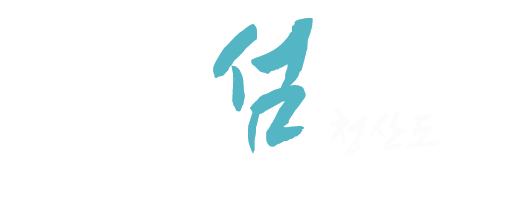
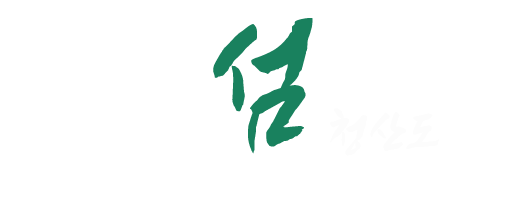
0710

Changed region(s): [[0.415, 0.0857, 0.6225, 0.7143]]

diff --git a/cheongsando/css/main.css b/cheongsando/css/main.css
@@ -50,7 +50,7 @@ header .gnb ul li a {
     display: block;
 }
 header .gnb ul li a:hover {
-    color: #55B2C5;
+    color: #19815E;
 }
 header.fixed {
     backdrop-filter: blur(10px) brightness(0.9);
@@ -85,7 +85,7 @@ header.fixed {
     width: 187px;
     height: 187px;
     border-radius: 50%;/* 정사각형에 border-radius가 동그라미 */
-    background-color: #55B2C5;
+    background-color: #19815E;
     color: #fff;
     text-align: center;
     box-shadow: 3px 3px 10px rgba(0, 0, 0, 0.2);
@@ -145,9 +145,9 @@ header.fixed {
 }
 .culture .more a:hover { 
     color: #fff;
-    background-color: rgba(84, 181, 197, 0.6);
+    background-color: rgba(25, 129, 94, 0.6);
     background-image: url(../images/more_white.svg);
-    border-color: rgba(84, 181, 197, 0.6);
+    border: 1px solid rgba(25, 129, 94, 0.6);
 }
 .culture .more a span {
     margin: 0 7px 0 0;
@@ -237,9 +237,9 @@ header.fixed {
 }
 .tour .more a:hover { 
     color: #fff;
-    background-color: rgba(84, 181, 197, 0.6);
+    background-color: rgba(25, 129, 94, 0.6);
     background-image: url(../images/more_white.svg);
-    border-color: rgba(84, 181, 197, 0.6);
+    border: 1px solid rgba(25, 129, 94, 0.6);
 }
 .community {
     height: 772px;
@@ -270,12 +270,12 @@ header.fixed {
 .community .news {
     width: 620px;
     height: 378px;
-    background-color: rgba(108, 185, 179, 0.2);
+    background-color: rgba(50, 173, 198, 0.2);
     border-radius: 20px;
     margin: 119px 0 0 0; 
     padding: 0px 45px;
     backdrop-filter: blur(10px);
-    color: rgba(108, 185, 179, 0.8);
+    color: rgba(255, 255, 255, 0.4);
 }
 .community .news h3 {
     font-size: 20px;
@@ -312,9 +312,8 @@ header.fixed {
     width: 140px;
     height: 132px;
     border-radius: 20px;
-    background-color: rgba(108, 185, 179, 0.2);
     backdrop-filter: blur(10px);
-    color: rgba(108, 185, 179, 0.8);
+    color: rgba(255, 255, 255, 0.4);
 }
 .community .link ul li a{
     height: 132px;
@@ -328,16 +327,16 @@ header.fixed {
     color: #fff;
 }
 .community .link ul li.link1 a {
-    background-image: url(../images/commuvity_ico1\ 0.svg);
+    background-image: url(../images/commuvity_ico10.png);
 }
 .community .link ul li.link2 a {
-    background-image: url(../images/commuvity_ico2\ 0.svg);
+    background-image: url(../images/commuvity_ico20.png);
 }
 .community .link ul li.link3 a {
-    background-image: url(../images/commuvity_ico3\ 0.svg);
+    background-image: url(../images/commuvity_ico30.png);
 }
 .community .link ul li.link4 a {
-    background-image: url(../images/commuvity_ico4\ 0.svg);
+    background-image: url(../images/commuvity_ico40.png);
 }
 .community .link ul li.link1 a:hover {
     background-image: url(../images/commuvity_ico1.svg);

diff --git a/cheongsando/index.html b/cheongsando/index.html
@@ -45,7 +45,7 @@
                         <ul>
                             <li>
                                 <a href="#n">
-                                    <div class="photo"><img src="images/cluture1.png" alt="조개사진"></div>
+                                    <div class="photo"><img src="images/cilture1.png" alt="조개사진"></div>
                                     <h3>조개공예</h3>
                                     <p>모든 재료는 직접 바다에 나가 직접 채취 하며 여러 사람끼리 모여 이야기 나누며 만듭니다.
                                     </p>
@@ -53,14 +53,14 @@
                             </li>
                             <li>
                                 <a href="#n">
-                                    <div class="photo"><img src="images/cluture2.png" alt="갯벌에 손을 담구는 사진"></div>
+                                    <div class="photo"><img src="images/cilture2.png" alt="갯벌에 손을 담구는 사진"></div>
                                     <h3>도락리 갯영 공포</h3>
                                     <p>갯바탕을 개방구역을 정해1일 개방하여 주민들이 취할 수 있는 규칙입니다.</p>
                                 </a>
                             </li>
                             <li>
                                 <a href="#n">
-                                    <div class="photo"><img src="images/cluture3.png" alt="삼치낚시 하는 사진"></div>
+                                    <div class="photo"><img src="images/cilture3.png" alt="삼치낚시 하는 사진"></div>
                                     <h3>삼치낚시</h3>
                                     <p>삼치낚시는 9월중순부터 청산도 연안해역 (상섬부근)을 따라 서서히 깊은 수심으로 이동합니다.</p>
                                 </a>
